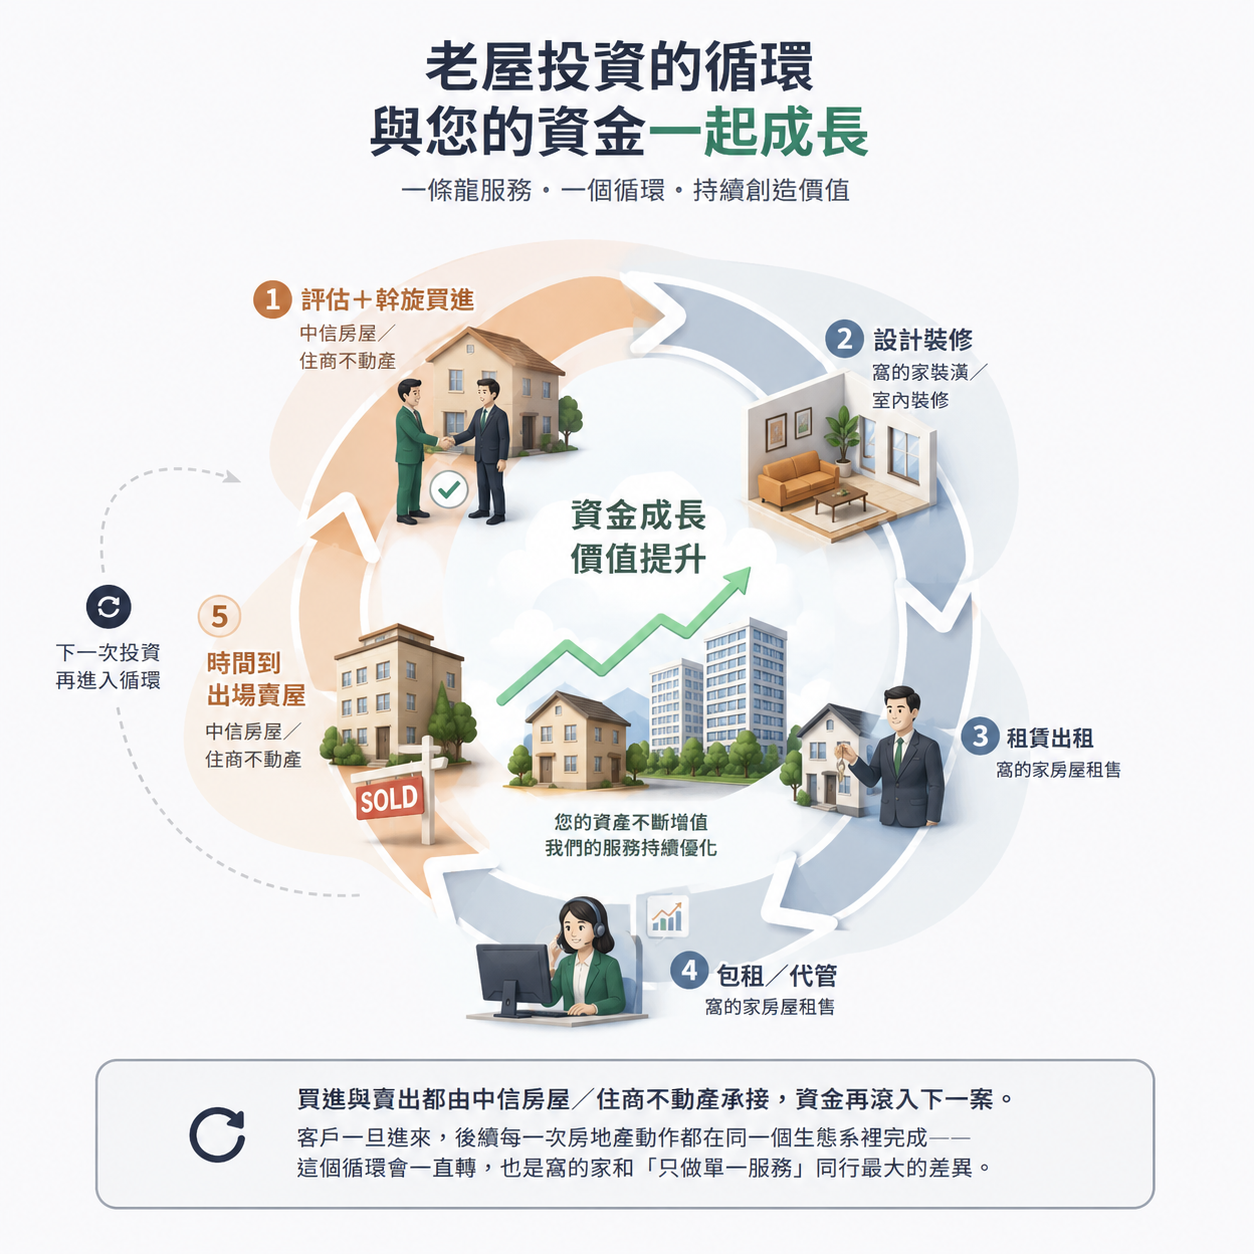
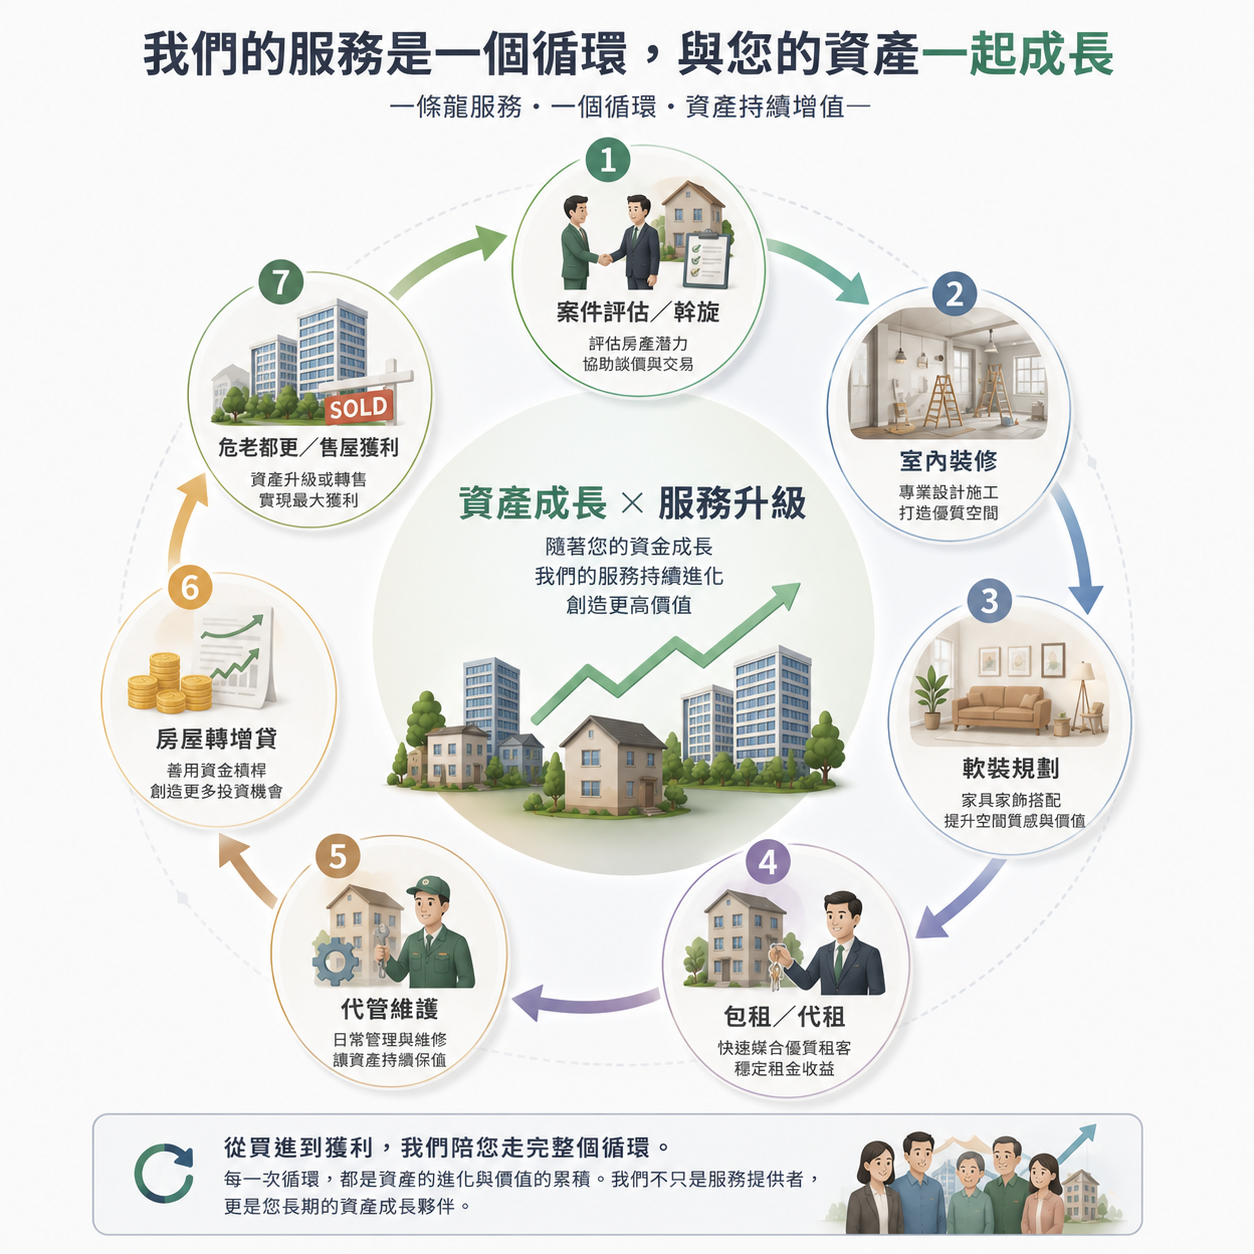
飛輪改用 7 階段版圖（評估斡旋→室內裝修→軟裝規劃→包租代租→代管維護→轉增貸→危老都更售屋），文字同步改 7 棒

diff --git a/wuohome-digital-transformation.html b/wuohome-digital-transformation.html
@@ -914,8 +914,8 @@
   </div>
 
   <h3>我們的模式：老屋投資的一條龍循環</h3>
-  <p style="color:var(--text-secondary);font-size:0.95rem;margin-bottom:16px;max-width:700px;">我們用房地產投資的角度，陪房東把一間老屋從買進到賣出走完一整圈——買進、設計裝修、出租、代管、到出場，每一哩路都由集團內不同公司接手，屋主只要出錢與做決定。同行通常只做其中一段，我們做完整一圈，而這一圈剛好對應到集團 6 間法人的分工。</p>
-  <img src="assets/flywheel.png" alt="老屋投資的一條龍循環：評估斡旋買進→設計裝修→租賃出租→包租代管→出場賣屋，資金滾入下一案" onerror="this.style.display='none'" style="width:100%;max-width:680px;display:block;margin:8px auto 0;border:1px solid var(--border);border-radius:var(--radius);">
+  <p style="color:var(--text-secondary);font-size:0.95rem;margin-bottom:16px;max-width:700px;">我們用房地產投資的角度，陪房東把一間老屋從買進到賣出走完一整圈——案件評估／斡旋、室內裝修、軟裝規劃、包租／代租、代管維護、房屋轉增貸、到危老都更／售屋獲利，每一哩路都由集團接手，屋主只要出錢與做決定。同行通常只做其中一段，我們做完整一圈，這也是窩的家和「只做單一服務」同行最大的差異。</p>
+  <img src="assets/flywheel.png" alt="老屋投資的循環：案件評估斡旋→室內裝修→軟裝規劃→包租代租→代管維護→房屋轉增貸→危老都更售屋獲利，資產與資金一起成長" onerror="this.style.display='none'" style="width:100%;max-width:680px;display:block;margin:8px auto 0;border:1px solid var(--border);border-radius:var(--radius);">
 
   <h3>人員組成</h3>
   <table class="data-table">